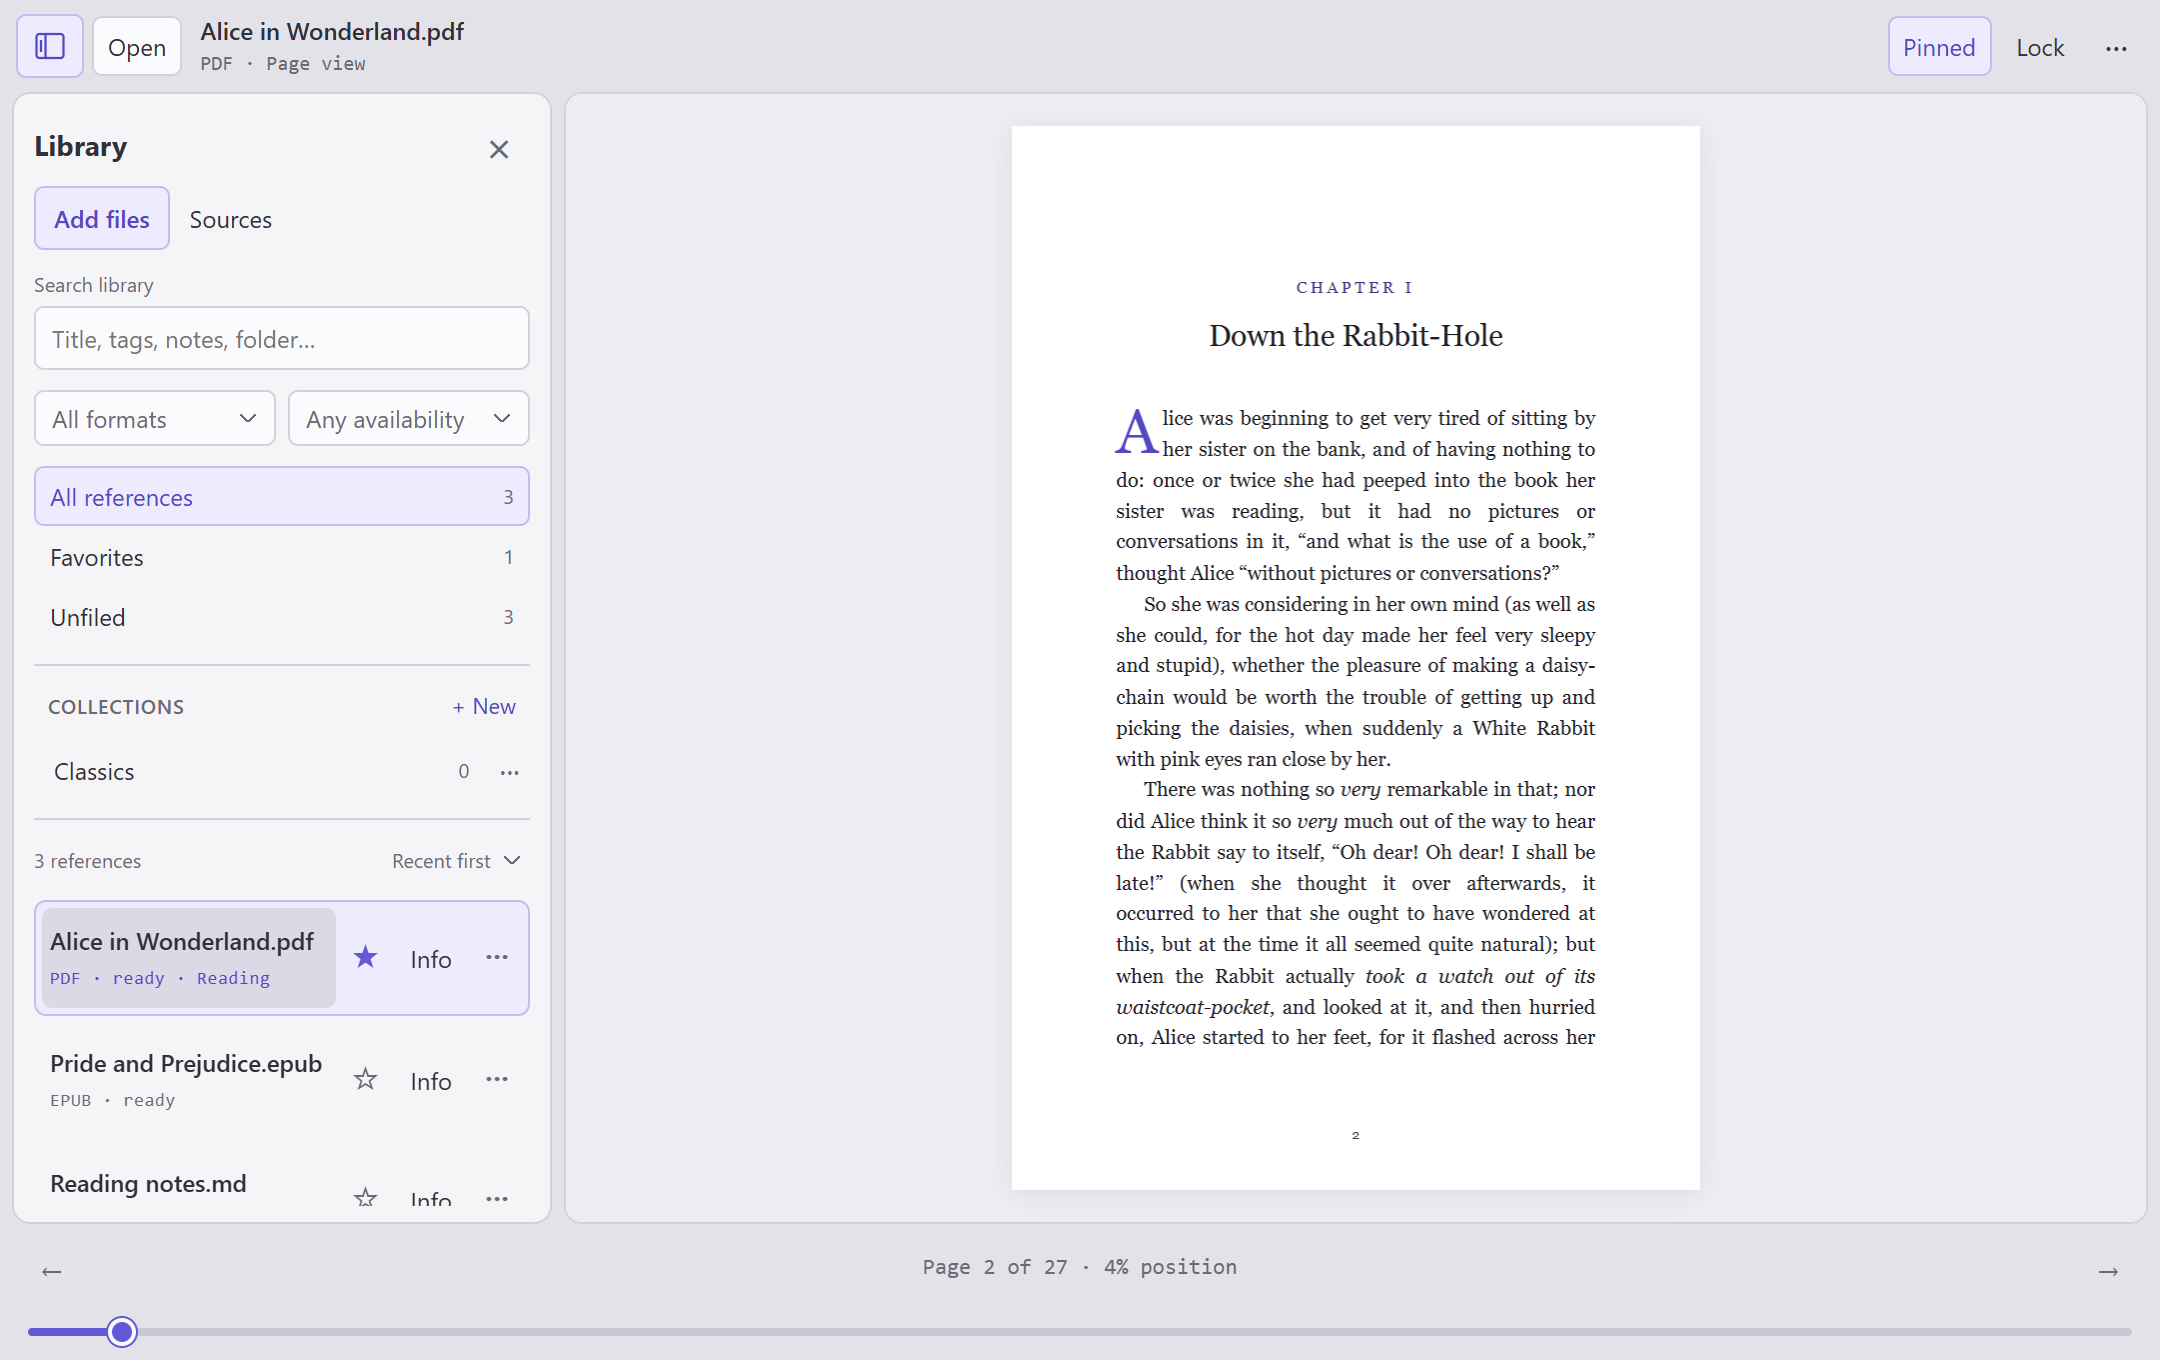
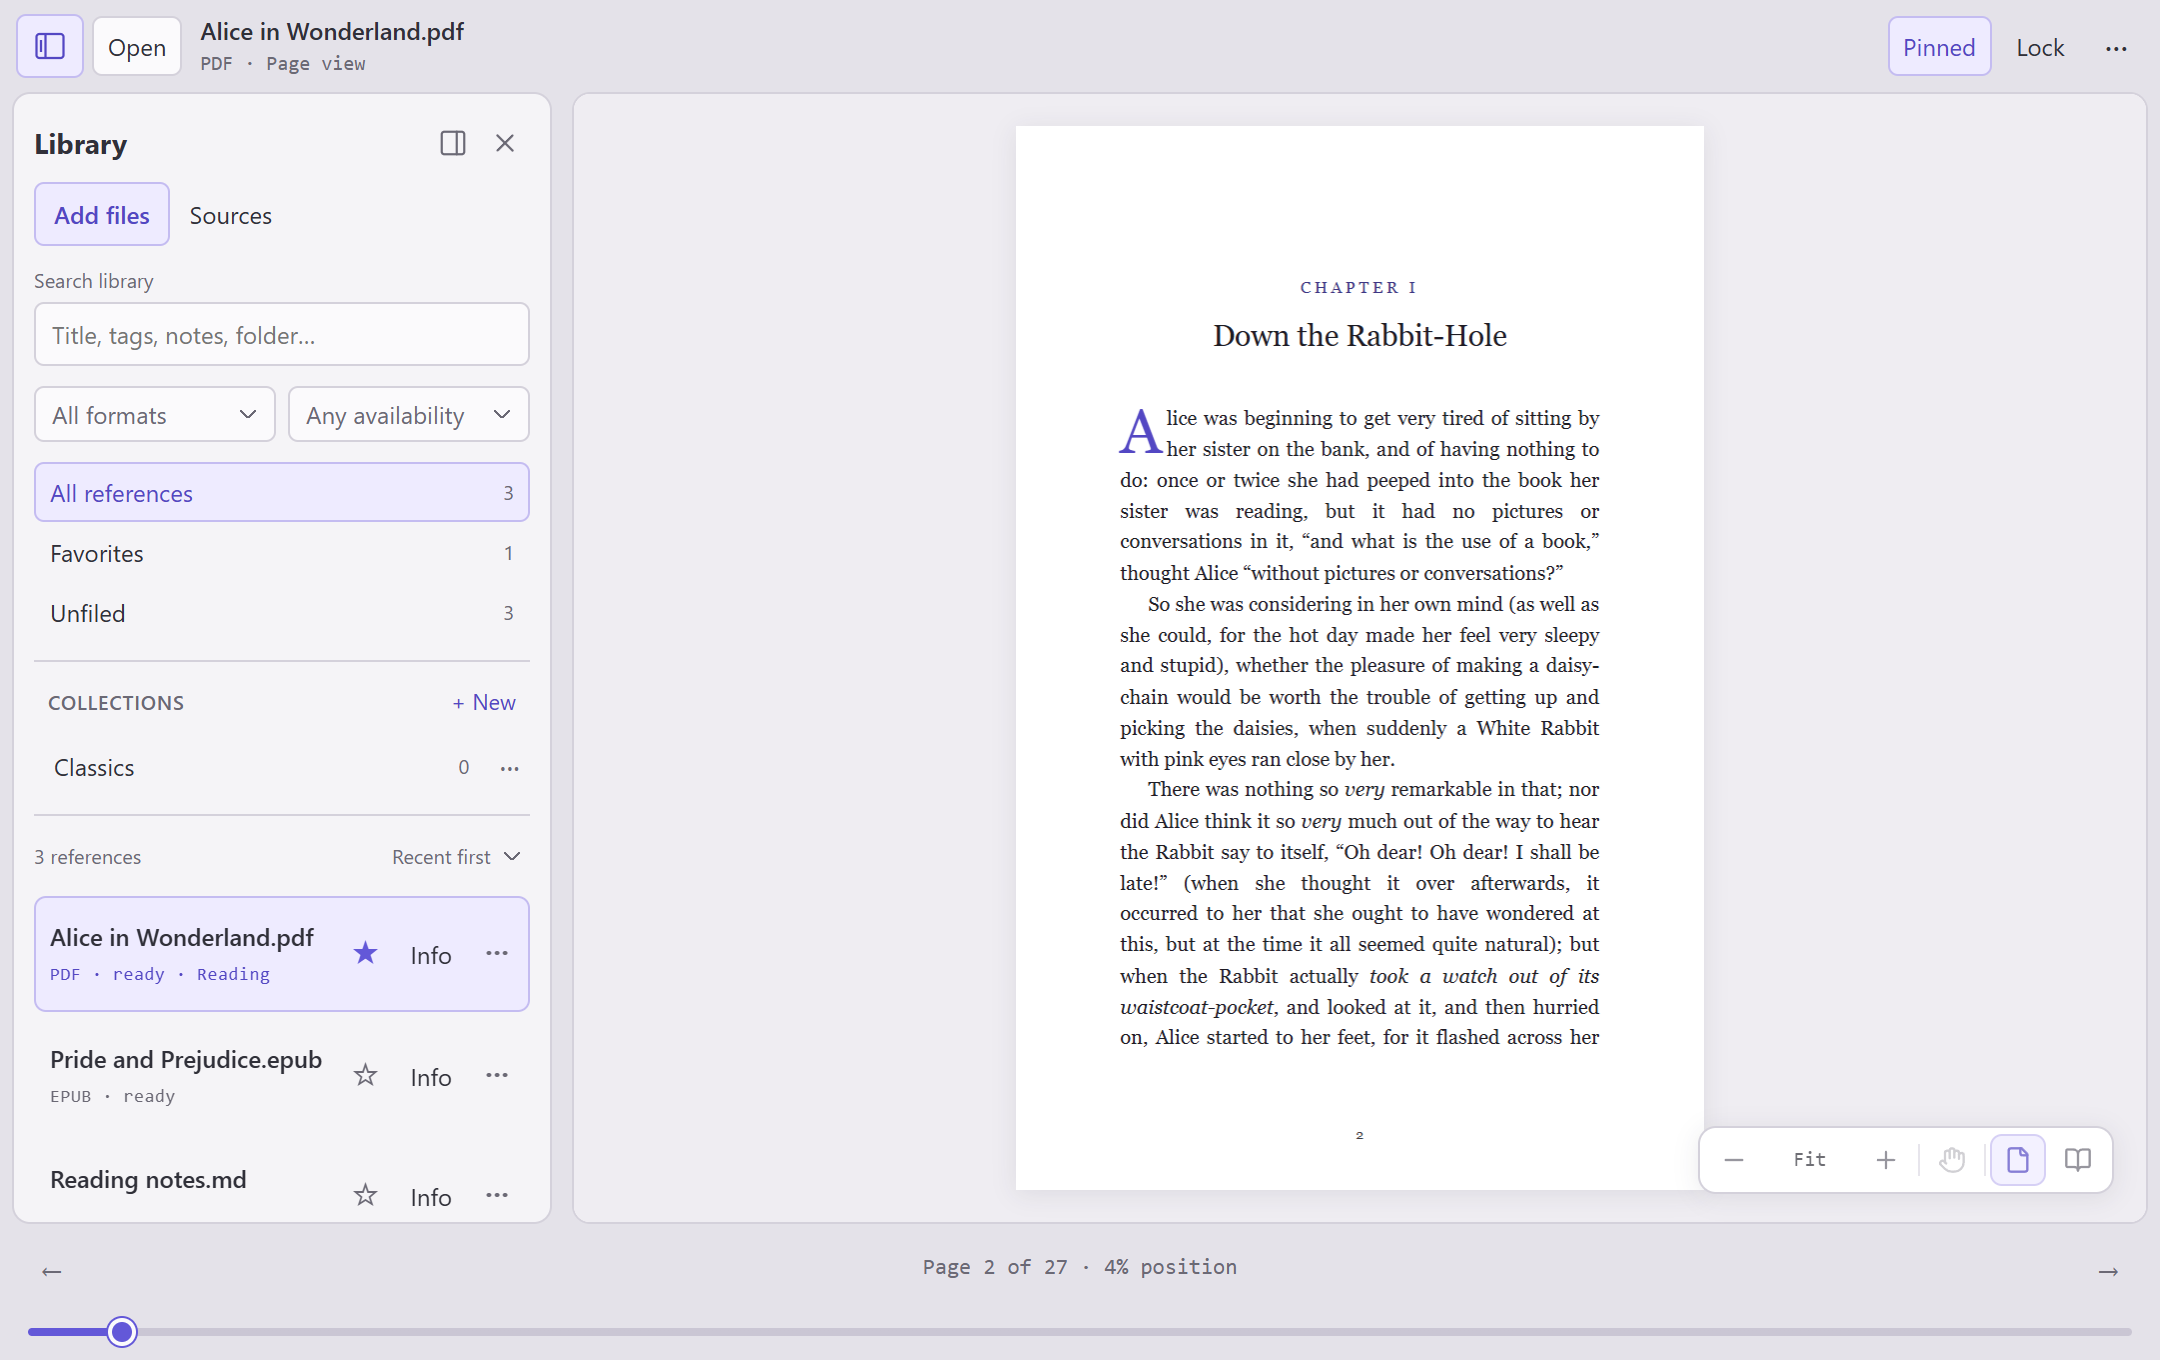
Show two-page view, hand tool and resizable library in the README; add downloads

diff --git a/README.md b/README.md
@@ -19,6 +19,10 @@
   <a href="LICENSE"><img alt="MIT license" src="https://img.shields.io/badge/license-MIT-6358d8?style=flat-square"></a>
 </p>
 
+<p align="center">
+  <a href="#download"><b>Download for Windows or Mac</b></a> · <a href="docs/user-guide.md">User guide</a>
+</p>
+
 ---
 
 ## Why it exists
@@ -50,20 +54,21 @@ computer.
   <tr>
     <td valign="top">
       <h3>Reads what you read</h3>
-      PDFs, EPUB books, Markdown notes, plain text and images, each shown the way it should be:
-      faithful pages for PDFs, comfortable reflowing text for books.
+      PDFs, EPUB books, Markdown notes, plain text and images: faithful pages for PDFs, comfortable
+      reflowing text for books. Turn pages, jump to a chapter or scrub through the whole document
+      with one slider.
     </td>
     <td valign="top">
-      <h3>Moves at the speed of a keyboard</h3>
-      Turn pages, jump to a chapter or scrub through the whole document with one slider. Every
-      control is also reachable without a mouse.
+      <h3>Opens like a book</h3>
+      Show two pages side by side, the way a printed book lies open. Zoom in on a small detail and
+      drag the page around by hand. Every control also works from the keyboard.
     </td>
   </tr>
   <tr>
     <td valign="top">
       <h3>A library for your references</h3>
       Collect documents into collections, star favorites, search, or point it at a folder of PDFs.
-      It references your files and never copies or moves them.
+      Make it wider or narrower and keep it on either side. It never copies or moves your files.
     </td>
     <td valign="top">
       <h3>Fits your space</h3>
@@ -75,10 +80,18 @@ computer.
 
 ## A closer look
 
+<p align="center">
+  <picture>
+    <source media="(prefers-color-scheme: dark)" srcset="docs/media/spread-dark.png">
+    <img src="docs/media/spread-light.png" alt="Pages 2 and 3 of Alice's Adventures in Wonderland shown side by side as an open book" width="880">
+  </picture>
+  <br><sub><b>Two-page view</b> lays out a PDF like an open book</sub>
+</p>
+
 <table>
   <tr>
     <td align="center" width="33%"><img src="docs/media/reading-epub.png" alt="Reading an EPUB book in the compact window"><br><sub><b>Reading a book</b> at the default 420 × 620 size</sub></td>
-    <td align="center" width="33%"><img src="docs/media/reading-pdf.png" alt="Reading a PDF page"><br><sub><b>PDF pages</b> stay faithful to the original</sub></td>
+    <td align="center" width="33%"><img src="docs/media/hand-tool.png" alt="A PDF page zoomed to 140% with the hand tool switched on in the floating zoom controls"><br><sub><b>Zoom in</b>, then drag the page with the hand tool</sub></td>
     <td align="center" width="33%"><img src="docs/media/appearance.png" alt="The Appearance panel with theme cards"><br><sub><b>Appearance</b>: hover to preview, click to keep</sub></td>
   </tr>
 </table>
@@ -88,7 +101,15 @@ computer.
     <source media="(prefers-color-scheme: dark)" srcset="docs/media/library-dark.png">
     <img src="docs/media/library-light.png" alt="The document library beside a PDF in a wide window" width="880">
   </picture>
-  <br><sub><b>The library</b> opens beside the page in wider windows</sub>
+  <br><sub><b>The library</b> opens beside the page in wider windows, on whichever side you prefer</sub>
+</p>
+
+<p align="center">
+  <picture>
+    <source media="(prefers-color-scheme: dark)" srcset="docs/media/library-resize-dark.gif">
+    <img src="docs/media/library-resize-light.gif" alt="Dragging the divider makes the library wider and the page refits; a double-click puts it back" width="720">
+  </picture>
+  <br><sub><b>Make room</b>: drag the divider and the page refits when you let go; double-click to reset</sub>
 </p>
 
 <p align="center">
@@ -130,9 +151,35 @@ The [implementation status](docs/floating-reader-implementation.md) separates wh
 from what isn't yet. Float Reader is a working release candidate, not a finished 1.0. Open items
 such as screen-reader testing and very large files are listed there, not glossed over.
 
-## Try it
+## Download
 
-There's no packaged download yet. To build it yourself you need Node.js and Rust; the
+Get the newest version from the
+[latest release](https://github.com/RVYNP/float-reader-public/releases/latest). There's nothing to
+sign up for.
+
+| Your computer | File to download |
+| --- | --- |
+| **Windows** (64-bit) | `Float-Reader-0.1.0-windows-x64-setup.exe` installs it just for you, no administrator needed. Prefer not to install? Unzip `Float-Reader-0.1.0-windows-x64-portable.zip` anywhere and run **Float Reader.exe**. |
+| **Mac** with Apple silicon (M1 or later) | `Float-Reader-0.1.0-macos-arm64.dmg`. There's no version for Intel Macs yet. |
+
+The version number in each file name changes with every release. To check a download, compare it
+with `SHA256SUMS.txt` on the same page.
+
+**The first time you open it.** Float Reader isn't code-signed yet, so your computer asks you to
+confirm once:
+
+- **Windows:** if a blue "Windows protected your PC" screen appears, choose **More info**, then
+  **Run anyway**.
+- **Mac:** open the `.dmg` and drag Float Reader to Applications. The first time you open it, macOS
+  says it can't verify the developer.
+  - On macOS 15 (Sequoia) or later, click **Done**, open **System Settings › Privacy & Security**,
+    scroll down and click **Open Anyway**.
+  - On macOS 14 or earlier, Control-click (or right-click) the app, choose **Open**, then **Open**
+    again.
+
+### Build it yourself
+
+Developers can build from source with Node.js and Rust; the
 [development guide](docs/development.md) covers Windows and macOS step by step.
 
 ```bash
